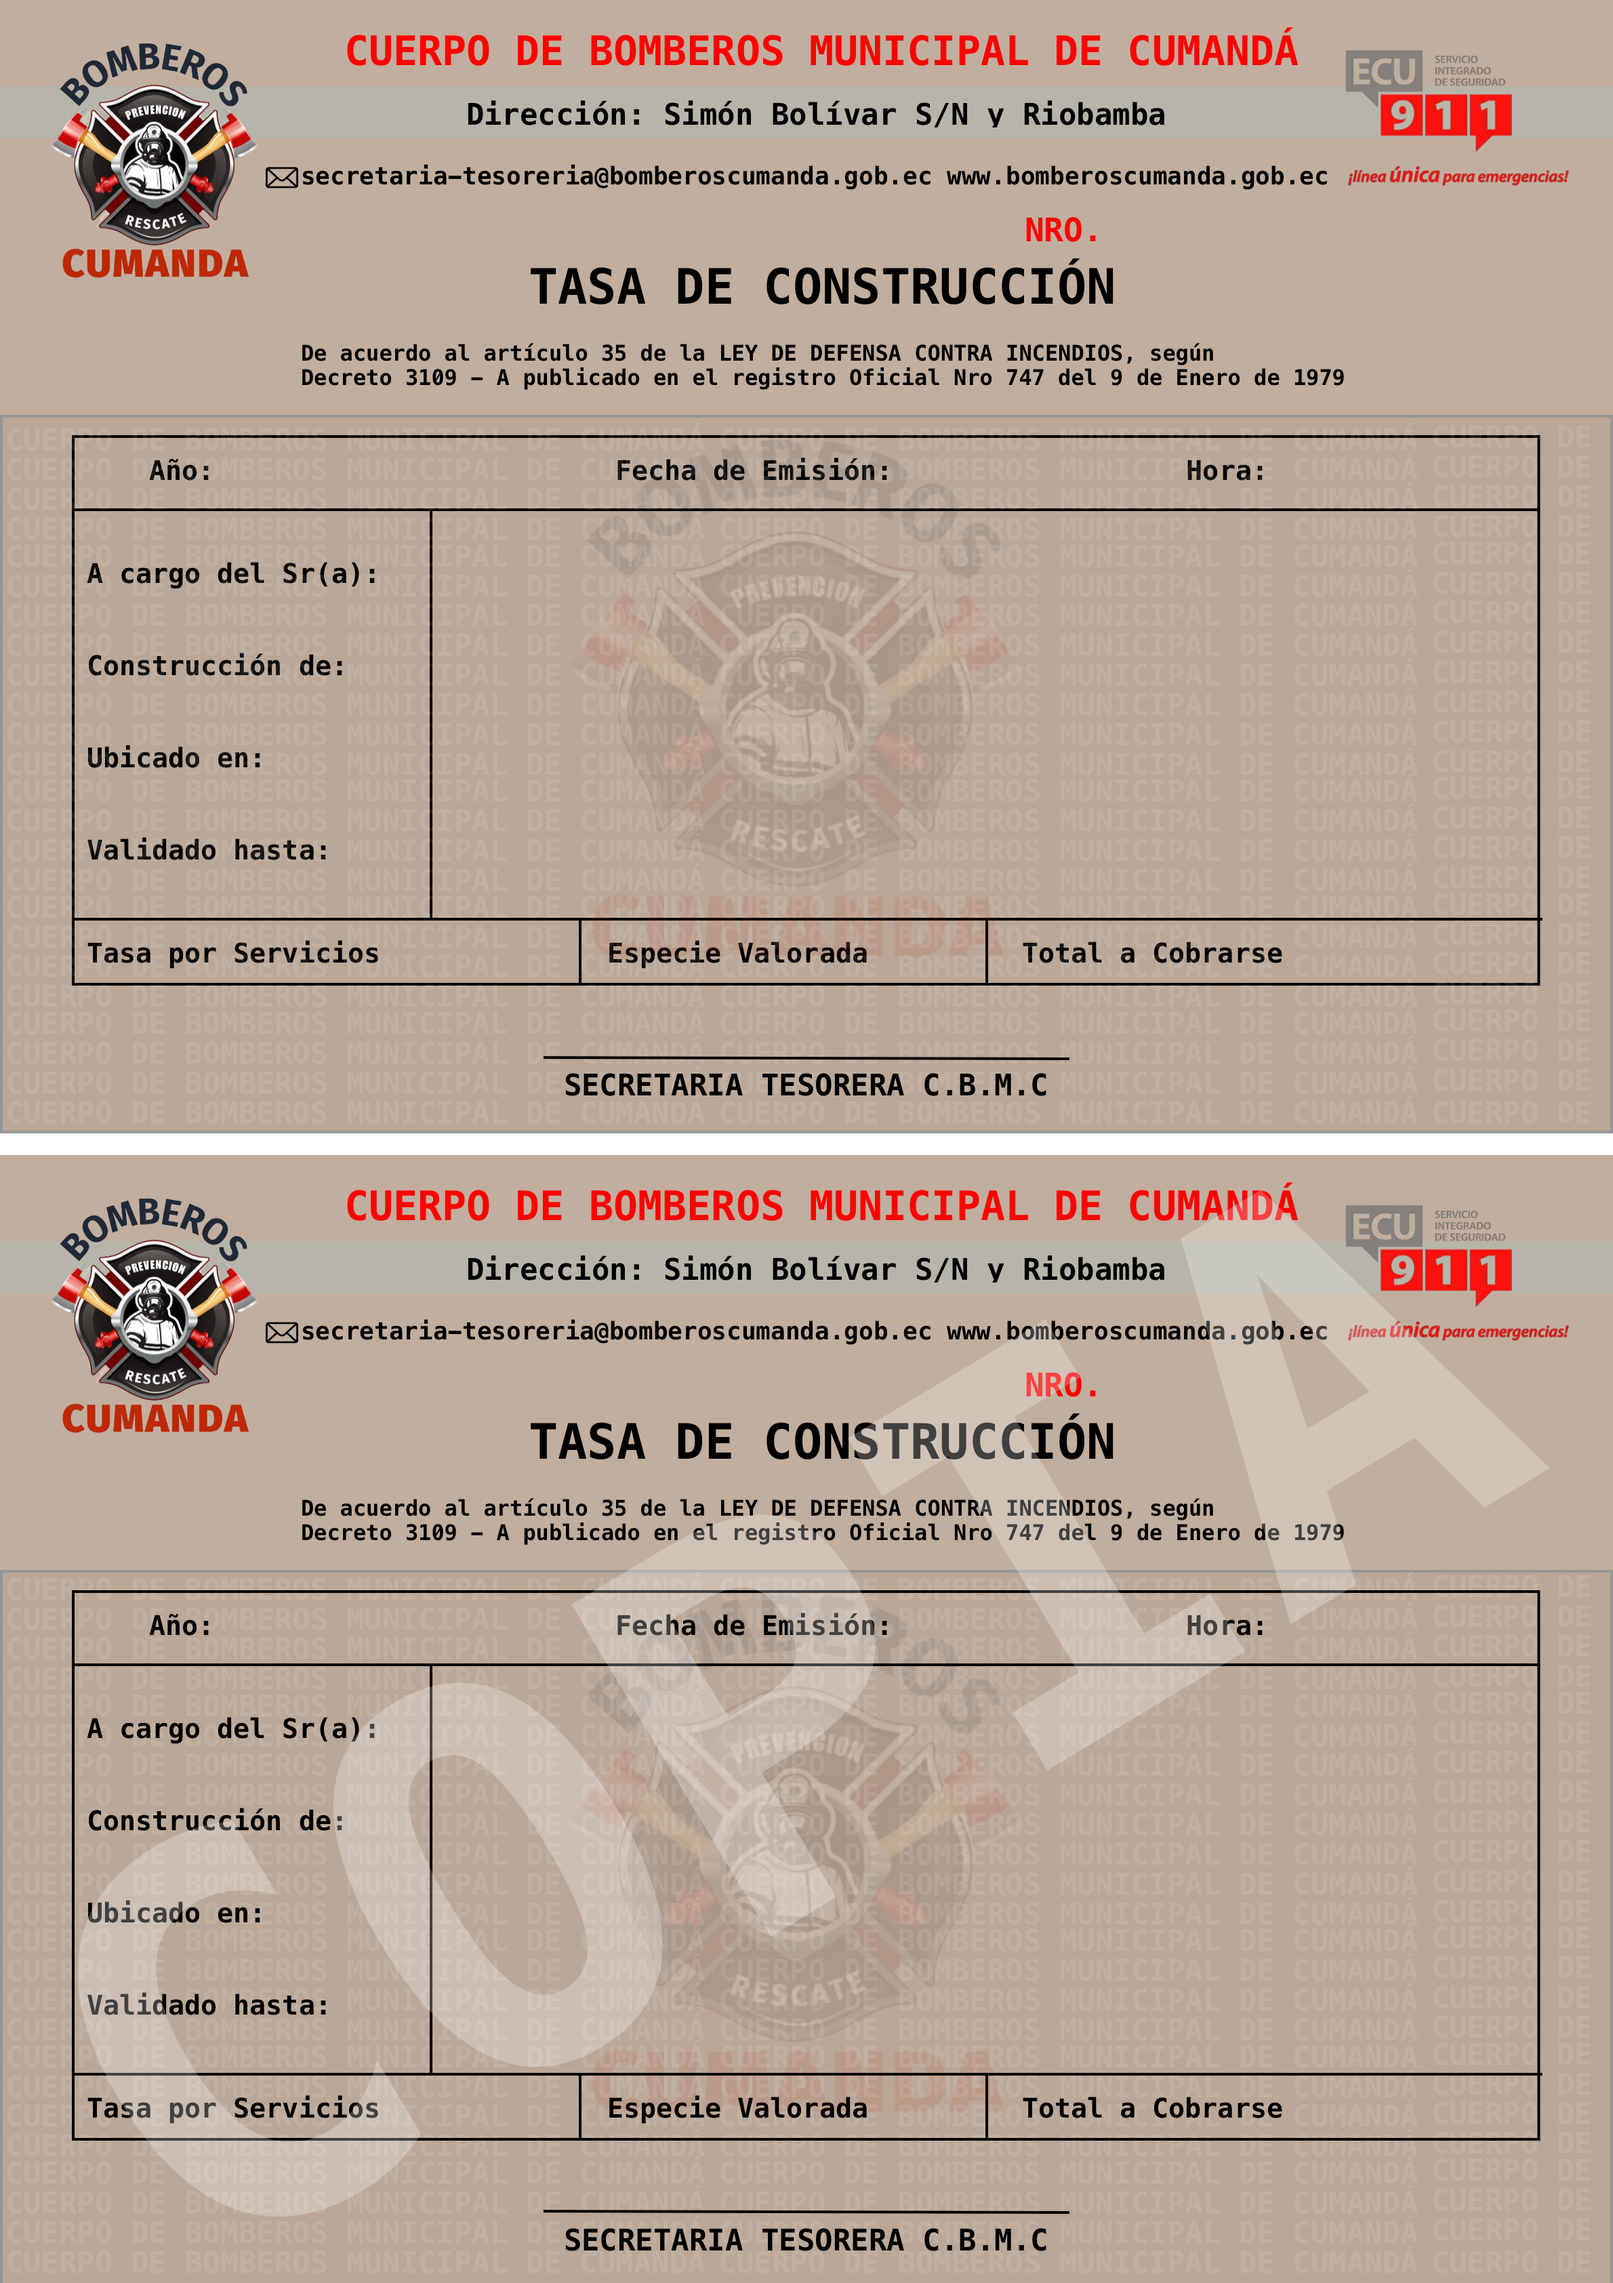
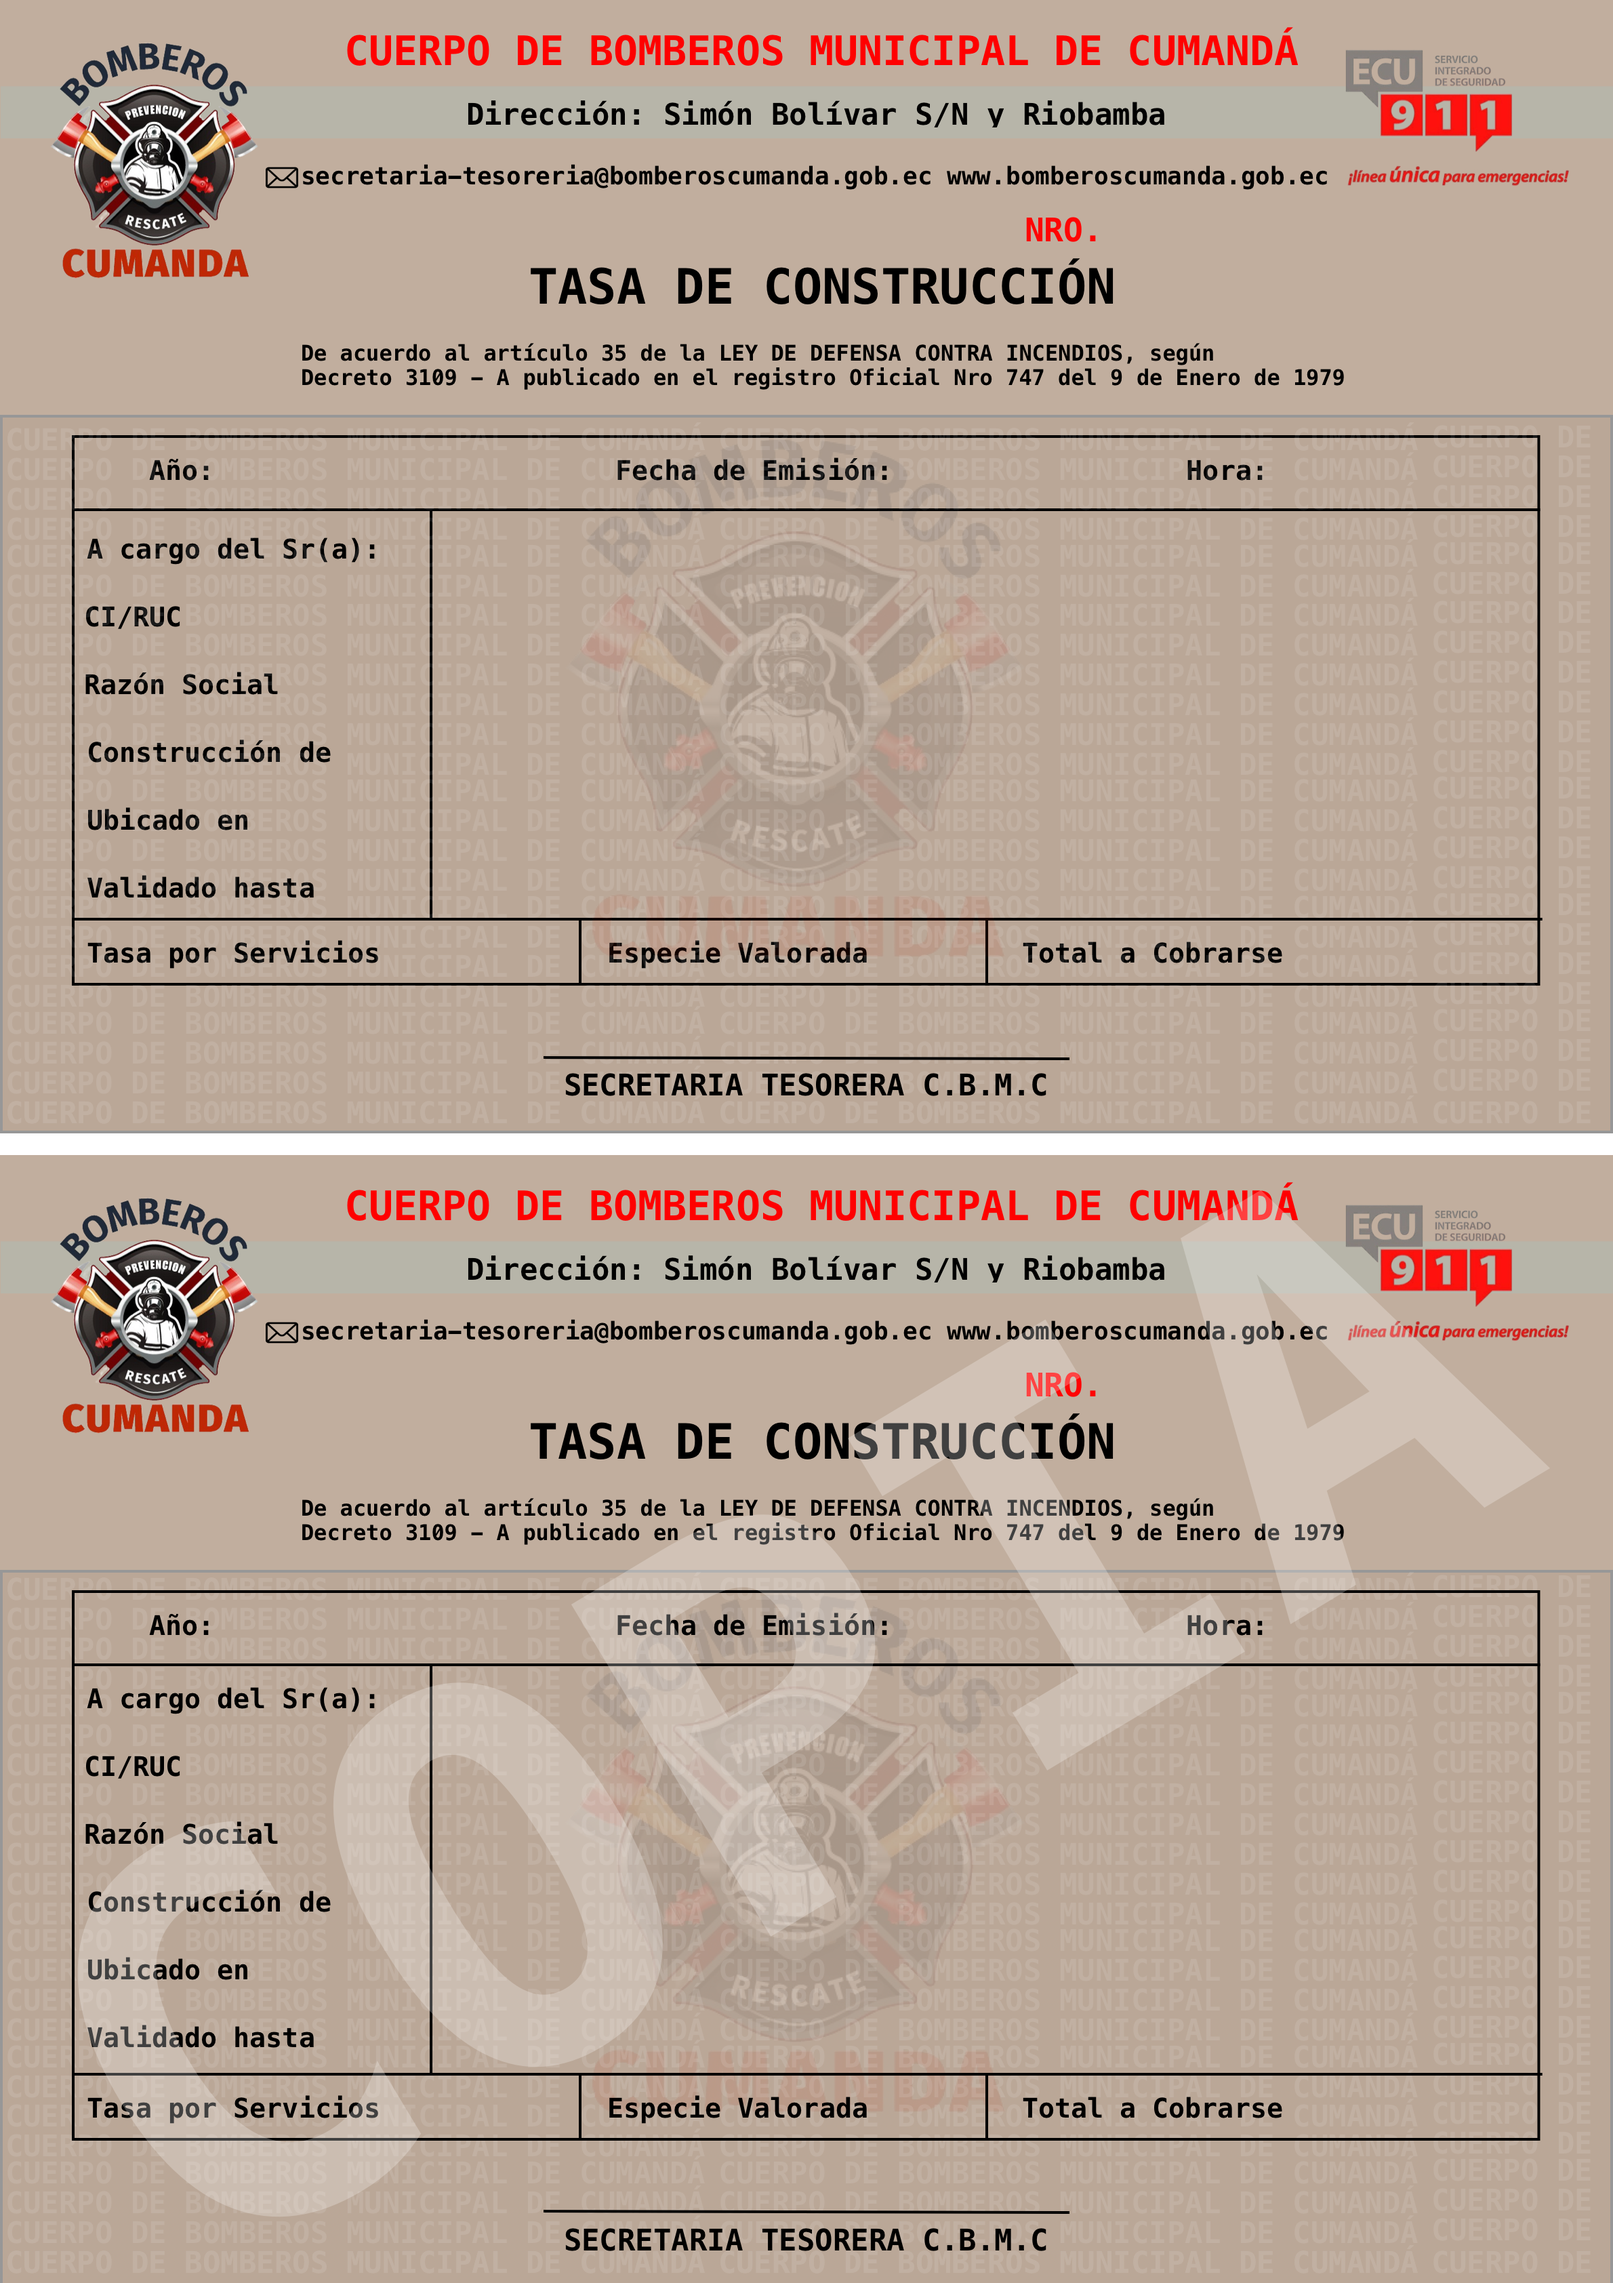
Changes permit

Changed region(s): [[0.0622, 0.2182, 0.2176, 0.4053], [0.0622, 0.717, 0.2176, 0.9041]]

diff --git a/src/cbd_reportes/MainPageController.java b/src/cbd_reportes/MainPageController.java
@@ -2163,7 +2163,7 @@ public class MainPageController implements Initializable {
             document.add(p1);
 
             p1.clear();
-            p1.setSpacingBefore(20f);
+            p1.setSpacingBefore(15f);
             _p1_.clear();
             _p1_.setFont(font);
             _p1_.add(Chunk.TABBING);
@@ -2173,10 +2173,34 @@ public class MainPageController implements Initializable {
             _p1_.add(String.format("%s", permiso.getFullName()));
             p1.add(_p1_);
             document.add(p1);
+            
+            p1.clear();
+            p1.setSpacingBefore(5f);
+            _p1_.clear();
+            _p1_.setFont(font);
+            _p1_.add(Chunk.TABBING);
+            _p1_.add(Chunk.TABBING);
+            _p1_.add(Chunk.TABBING);
+            _p1_.add(Chunk.TABBING);
+            _p1_.add(String.format("%s", permiso.getCedula()));
+            p1.add(_p1_);
+            document.add(p1);
+            
+            p1.clear();
+            p1.setSpacingBefore(10f);
+            _p1_.clear();
+            _p1_.setFont(font);
+            _p1_.add(Chunk.TABBING);
+            _p1_.add(Chunk.TABBING);
+            _p1_.add(Chunk.TABBING);
+            _p1_.add(Chunk.TABBING);
+            _p1_.add(permiso.getRazon_social());
+            p1.add(_p1_);
+            document.add(p1);
 
             boolean isLonger = false;
             p1.clear();
-            p1.setSpacingBefore(20f);
+            p1.setSpacingBefore(12f);
             _p1_.clear();
             _p1_.setFont(font);
             _p1_.add(Chunk.TABBING);
@@ -2209,7 +2233,7 @@ public class MainPageController implements Initializable {
             if (isLonger) {
                 p1.setSpacingBefore(0f);
             } else {
-                p1.setSpacingBefore(18f);
+                p1.setSpacingBefore(8f);
             }
             _p1_.clear();
             _p1_.setFont(smallfont);
@@ -2223,9 +2247,9 @@ public class MainPageController implements Initializable {
 
             p1.clear();
             if (isLonger) {
-                p1.setSpacingBefore(4f);
+                p1.setSpacingBefore(0f);
             } else {
-                p1.setSpacingBefore(18f);
+                p1.setSpacingBefore(10f);
             }
             _p1_.clear();
             _p1_.setFont(font);
@@ -2241,7 +2265,7 @@ public class MainPageController implements Initializable {
             if (isLonger) {
                 p1.setSpacingBefore(0f);
             } else {
-                p1.setSpacingBefore(22f);
+                p1.setSpacingBefore(5f);
             }
             _p1_.clear();
             _p1_.setFont(font);
@@ -2331,7 +2355,7 @@ public class MainPageController implements Initializable {
             document.add(p1);
 
             p1.clear();
-            p1.setSpacingBefore(20f);
+            p1.setSpacingBefore(15f);
             _p1_.clear();
             _p1_.setFont(font);
             _p1_.add(Chunk.TABBING);
@@ -2341,10 +2365,34 @@ public class MainPageController implements Initializable {
             _p1_.add(String.format("%s", permiso.getFullName()));
             p1.add(_p1_);
             document.add(p1);
+            
+            p1.clear();
+            p1.setSpacingBefore(5f);
+            _p1_.clear();
+            _p1_.setFont(font);
+            _p1_.add(Chunk.TABBING);
+            _p1_.add(Chunk.TABBING);
+            _p1_.add(Chunk.TABBING);
+            _p1_.add(Chunk.TABBING);
+            _p1_.add(String.format("%s", permiso.getCedula()));
+            p1.add(_p1_);
+            document.add(p1);
+            
+            p1.clear();
+            p1.setSpacingBefore(10f);
+            _p1_.clear();
+            _p1_.setFont(font);
+            _p1_.add(Chunk.TABBING);
+            _p1_.add(Chunk.TABBING);
+            _p1_.add(Chunk.TABBING);
+            _p1_.add(Chunk.TABBING);
+            _p1_.add(permiso.getRazon_social());
+            p1.add(_p1_);
+            document.add(p1);
 
             boolean isLonger = false;
             p1.clear();
-            p1.setSpacingBefore(20f);
+            p1.setSpacingBefore(12f);
             _p1_.clear();
             _p1_.setFont(font);
             _p1_.add(Chunk.TABBING);
@@ -2377,7 +2425,7 @@ public class MainPageController implements Initializable {
             if (isLonger) {
                 p1.setSpacingBefore(0f);
             } else {
-                p1.setSpacingBefore(18f);
+                p1.setSpacingBefore(8f);
             }
             _p1_.clear();
             _p1_.setFont(smallfont);
@@ -2391,9 +2439,9 @@ public class MainPageController implements Initializable {
 
             p1.clear();
             if (isLonger) {
-                p1.setSpacingBefore(4f);
+                p1.setSpacingBefore(0f);
             } else {
-                p1.setSpacingBefore(18f);
+                p1.setSpacingBefore(10f);
             }
             _p1_.clear();
             _p1_.setFont(font);
@@ -2409,7 +2457,7 @@ public class MainPageController implements Initializable {
             if (isLonger) {
                 p1.setSpacingBefore(0f);
             } else {
-                p1.setSpacingBefore(22f);
+                p1.setSpacingBefore(5f);
             }
             _p1_.clear();
             _p1_.setFont(font);
@@ -5327,7 +5375,11 @@ public class MainPageController implements Initializable {
         emision_tipo_permiso.getSelectionModel().selectedIndexProperty().addListener(new ChangeListener<Number>() {
             @Override
             public void changed(ObservableValue<? extends Number> observableValue, Number number, Number number2) {
-
+                if(modo_permiso.getValue() == "Construcción") {
+                    int position = emision_tipo_permiso.getSelectionModel().getSelectedIndex();
+                    String permitName = tps.get(position).getTipo_permiso().split("–")[0];
+                    emision_descripcion.setText(permitName);
+                }
             }
         });
 
